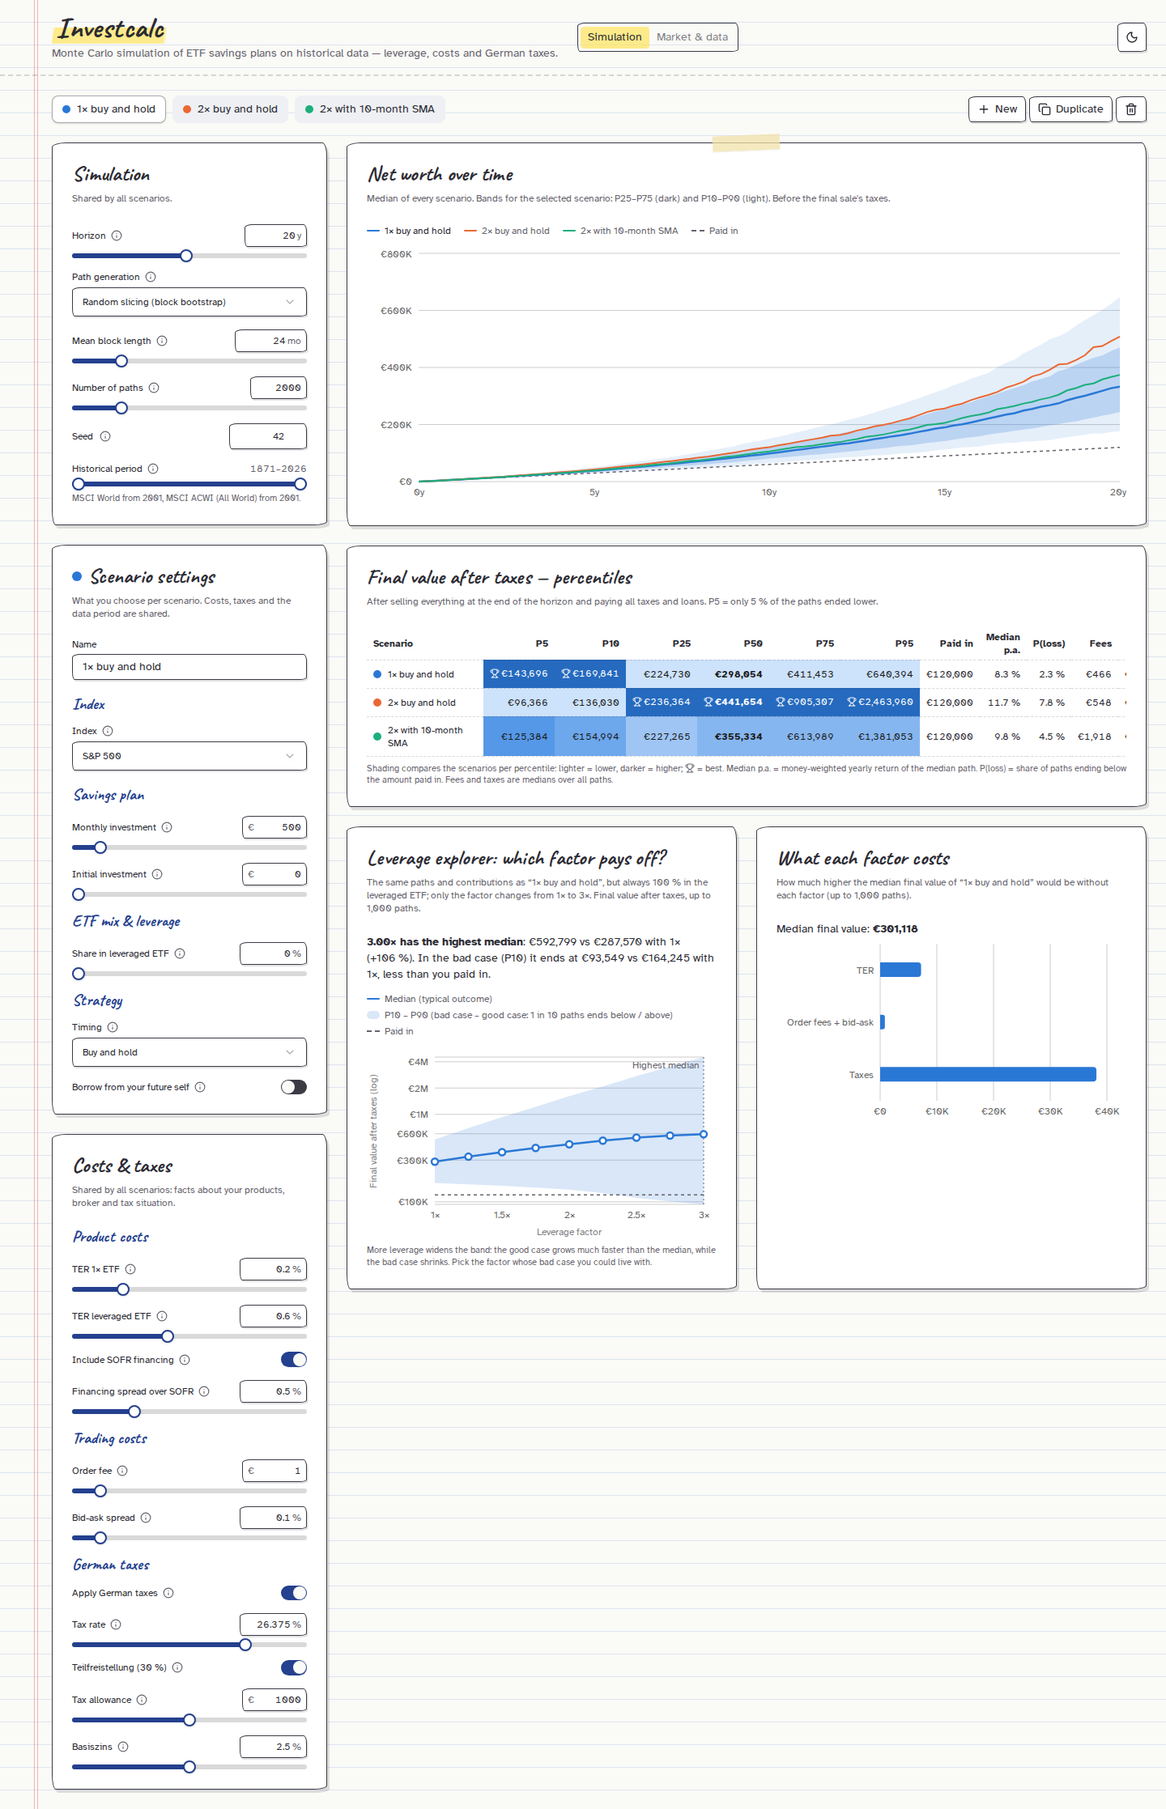
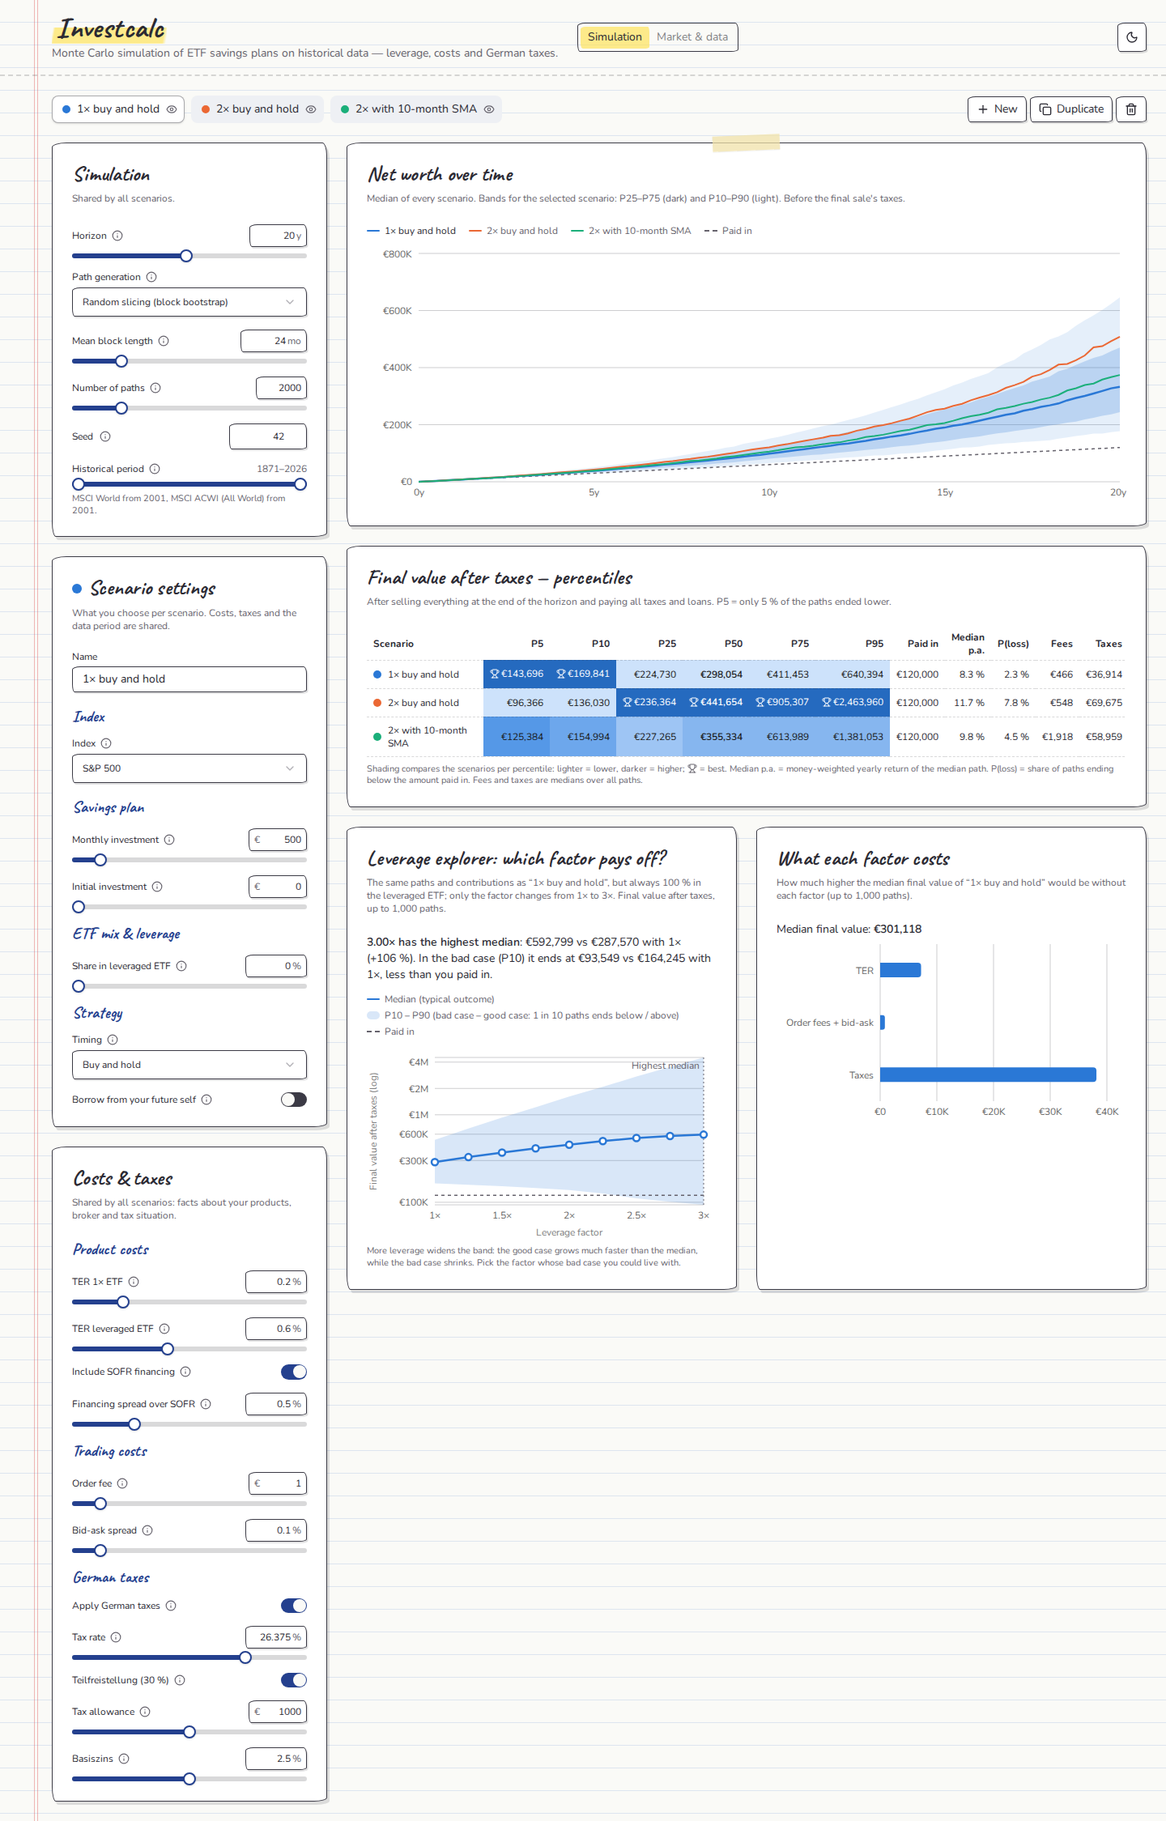
Hide/show scenarios, switch body font to Nunito
Spec 004: scenarios can be hidden from chart and results table (not
simulated, persisted); body typeface Atkinson Hyperlegible -> Nunito.

diff --git a/src/features/scenarios/ScenarioBar.tsx b/src/features/scenarios/ScenarioBar.tsx
@@ -1,4 +1,4 @@
-import { CopyIcon, PlusIcon, Trash2Icon } from "lucide-react";
+import { CopyIcon, EyeIcon, EyeOffIcon, PlusIcon, Trash2Icon } from "lucide-react";
 import { Button } from "@/components/ui/button";
 import { MAX_SCENARIOS, type Scenario, scenarioColor } from "@/features/scenarios/scenario";
 import { cn } from "@/lib/utils";
@@ -7,6 +7,7 @@ type Props = {
   scenarios: Scenario[];
   selectedKey: string;
   onSelect: (key: string) => void;
+  onToggleVisible: (key: string) => void;
   onAdd: () => void;
   onDuplicate: () => void;
   onRemove: () => void;
@@ -16,6 +17,7 @@ export function ScenarioBar({
   scenarios,
   selectedKey,
   onSelect,
+  onToggleVisible,
   onAdd,
   onDuplicate,
   onRemove,
@@ -24,28 +26,57 @@ export function ScenarioBar({
   return (
     <div className="flex flex-wrap items-center gap-2">
       <div role="tablist" aria-label="Scenarios" className="flex flex-wrap gap-2">
-        {scenarios.map((s) => (
-          <button
-            key={s.key}
-            type="button"
-            role="tab"
-            aria-selected={s.key === selectedKey}
-            onClick={() => onSelect(s.key)}
-            className={cn(
-              "flex items-center gap-2 rounded-md border px-3 py-1.5 text-sm transition-colors",
-              s.key === selectedKey
-                ? "border-foreground/40 bg-card shadow-sm"
-                : "border-transparent bg-muted hover:bg-card",
-            )}
-          >
-            <span
-              className="size-2.5 rounded-full"
-              style={{ background: scenarioColor(s) }}
-              aria-hidden
-            />
-            {s.params.name}
-          </button>
-        ))}
+        {scenarios.map((s) => {
+          const selected = s.key === selectedKey;
+          const visible = !s.hidden;
+          return (
+            <div
+              key={s.key}
+              role="presentation"
+              className={cn(
+                "flex items-center rounded-md border text-sm transition-colors",
+                selected
+                  ? "border-foreground/40 bg-card shadow-sm"
+                  : "border-transparent bg-muted hover:bg-card",
+              )}
+            >
+              <button
+                type="button"
+                role="tab"
+                aria-selected={selected}
+                onClick={() => onSelect(s.key)}
+                className={cn(
+                  "flex items-center gap-2 py-1.5 pr-1 pl-3",
+                  !visible && "text-muted-foreground line-through decoration-1",
+                )}
+              >
+                <span
+                  className="size-2.5 rounded-full border-2"
+                  style={{
+                    borderColor: scenarioColor(s),
+                    background: visible ? scenarioColor(s) : "transparent",
+                  }}
+                  aria-hidden
+                />
+                {s.params.name}
+              </button>
+              <button
+                type="button"
+                aria-label={`Show ${s.params.name}`}
+                aria-pressed={visible}
+                title={visible ? "Hide from chart and table" : "Show in chart and table"}
+                onClick={() => onToggleVisible(s.key)}
+                className="mr-1 rounded p-1 text-muted-foreground hover:text-foreground focus-visible:outline-2 focus-visible:outline-ring"
+              >
+                {visible ? (
+                  <EyeIcon className="size-3.5" aria-hidden />
+                ) : (
+                  <EyeOffIcon className="size-3.5" aria-hidden />
+                )}
+              </button>
+            </div>
+          );
+        })}
       </div>
       <div className="ml-auto flex gap-1">
         <Button size="sm" variant="outline" onClick={onAdd} disabled={full}>

diff --git a/src/App.test.tsx b/src/App.test.tsx
@@ -204,3 +204,84 @@ test("REQ-002-05 market and data basis are on their own view, not among the resu
   expect(screen.getByText("Data basis")).toBeInTheDocument();
   expect(screen.queryByText("Scenario settings")).not.toBeInTheDocument();
 });
+
+const fakeResult = () => ({
+  pathCount: 10,
+  period: "",
+  bands: [{ p10: 1, p25: 2, p50: 3, p75: 4, p90: 5 }],
+  final: { p5: 1, p10: 2, p25: 3, p50: 4, p75: 5, p95: 6 },
+  invested: 1,
+  probabilityOfLoss: 0,
+  medianFees: 0,
+  medianTaxes: 0,
+});
+
+function resolvingClient() {
+  const calls: { key: string }[][] = [];
+  const client = {
+    run: (jobs: { key: string }[]) => {
+      calls.push(jobs);
+      return Promise.resolve(Object.fromEntries(jobs.map((j) => [j.key, fakeResult()])));
+    },
+    analyze: () => new Promise(() => {}),
+  } as unknown as Pick<SimulationClient, "run" | "analyze">;
+  return { client, calls };
+}
+
+async function resultsCard() {
+  return (await screen.findByText(/Final value after taxes — percentiles/)).closest(
+    "[data-slot=card]",
+  ) as HTMLElement;
+}
+
+test("REQ-004-01 hidden scenarios leave the chart and the results table", async () => {
+  const { client, calls } = resolvingClient();
+  renderApp(client);
+  const legend = await screen.findByRole("list", { name: "Legend" });
+  await within(legend).findByText("2× buy and hold");
+
+  const toggle = screen.getByRole("button", { name: "Show 2× buy and hold" });
+  expect(toggle).toHaveAttribute("aria-pressed", "true");
+  fireEvent.click(toggle);
+  expect(toggle).toHaveAttribute("aria-pressed", "false");
+
+  await vi.waitFor(() => expect(calls.at(-1)?.map((j) => j.key)).toEqual(["s1", "s3"]));
+  await vi.waitFor(() =>
+    expect(within(legend).queryByText("2× buy and hold")).not.toBeInTheDocument(),
+  );
+  const card = await resultsCard();
+  expect(within(card).queryByRole("article", { name: "2× buy and hold" })).not.toBeInTheDocument();
+  expect(within(card).getByRole("article", { name: "1× buy and hold" })).toBeInTheDocument();
+
+  // Still in the scenario bar and editable.
+  const tabs = screen.getByRole("tablist", { name: "Scenarios" });
+  fireEvent.click(within(tabs).getByRole("tab", { name: /2× buy and hold/ }));
+  expect(screen.getByLabelText("Name")).toHaveValue("2× buy and hold");
+});
+
+test("REQ-004-02 a hidden scenario can be shown again", async () => {
+  const { client, calls } = resolvingClient();
+  renderApp(client);
+  const legend = await screen.findByRole("list", { name: "Legend" });
+  const toggle = await screen.findByRole("button", { name: "Show 1× buy and hold" });
+  fireEvent.click(toggle);
+  await vi.waitFor(() => expect(calls.at(-1)?.map((j) => j.key)).toEqual(["s2", "s3"]));
+  fireEvent.click(toggle);
+  await vi.waitFor(() => expect(calls.at(-1)?.map((j) => j.key)).toEqual(["s1", "s2", "s3"]));
+  await within(legend).findByText("1× buy and hold");
+});
+
+test("REQ-004-03 hidden scenarios stay hidden after a reload", async () => {
+  const first = renderApp();
+  fireEvent.click(await screen.findByRole("button", { name: "Show 2× buy and hold" }));
+  first.unmount();
+  renderApp();
+  expect(await screen.findByRole("button", { name: "Show 2× buy and hold" })).toHaveAttribute(
+    "aria-pressed",
+    "false",
+  );
+  expect(screen.getByRole("button", { name: "Show 1× buy and hold" })).toHaveAttribute(
+    "aria-pressed",
+    "true",
+  );
+});

diff --git a/e2e/screenshots.spec.ts b/e2e/screenshots.spec.ts
@@ -3,24 +3,30 @@ import { devices, expect, test } from "@playwright/test";
 const { defaultBrowserType: _, ...iPhone } = devices["iPhone 13"];
 const desktop = { viewport: { width: 1440, height: 900 } };
 
-const shots = [
-  { name: "home", device: desktop, view: undefined },
-  { name: "home-dark", device: { ...desktop, colorScheme: "dark" as const }, view: undefined },
-  { name: "home-mobile", device: iPhone, view: undefined },
+type Shot = { name: string; device: object; view?: string; hide?: string };
+
+const shots: Shot[] = [
+  { name: "home", device: desktop },
+  { name: "home-dark", device: { ...desktop, colorScheme: "dark" as const } },
+  { name: "home-mobile", device: iPhone },
+  { name: "scenario-hidden", device: desktop, hide: "2× buy and hold" },
   { name: "market", device: desktop, view: "Market & data" },
 ];
 
-for (const { name, device, view } of shots) {
+for (const { name, device, view, hide } of shots) {
   test.describe(name, () => {
     test.use(device);
     test(`screenshot: ${name}`, async ({ page }) => {
       await page.goto("/");
+      if (hide) await page.getByRole("button", { name: `Show ${hide}` }).click();
       if (view) {
         await page.getByRole("tab", { name: view }).click();
         await expect(page.getByText("Data basis")).toBeVisible();
       } else {
         // Wait for the simulation and the analysis of the selected scenario.
         await expect(page.getByTestId("leverage-takeaway")).toBeVisible({ timeout: 60_000 });
+        await expect(page.getByText("Simulating…").first()).toBeHidden({ timeout: 60_000 });
+        await page.mouse.move(0, 0);
       }
       await page.screenshot({ path: `docs/screenshots/${name}.png`, fullPage: true });
     });

diff --git a/src/App.tsx b/src/App.tsx
@@ -70,7 +70,8 @@ export function App({ loadDataset = fetchDataset, simulationClient }: AppProps) 
   }, [scenarios, selected.key, global, shared]);
 
   const resolved = useMemo<ResolvedScenario[]>(
-    () => scenarios.map((s) => ({ ...s, params: toParams(s.params, shared) })),
+    () =>
+      scenarios.filter((s) => !s.hidden).map((s) => ({ ...s, params: toParams(s.params, shared) })),
     [scenarios, shared],
   );
   // Memoised on its own so editing another scenario does not re-run the analysis.
@@ -93,6 +94,8 @@ export function App({ loadDataset = fetchDataset, simulationClient }: AppProps) 
   };
   const updateSelected = (params: ScenarioChoices) =>
     setScenarios(scenarios.map((s) => (s.key === selected.key ? { ...s, params } : s)));
+  const toggleVisible = (key: string) =>
+    setScenarios(scenarios.map((s) => (s.key === key ? { ...s, hidden: !s.hidden } : s)));
   const removeSelected = () => {
     const rest = scenarios.filter((s) => s.key !== selected.key);
     setScenarios(rest);
@@ -148,6 +151,7 @@ export function App({ loadDataset = fetchDataset, simulationClient }: AppProps) 
                     scenarios={scenarios}
                     selectedKey={selected.key}
                     onSelect={setSelectedKey}
+                    onToggleVisible={toggleVisible}
                     onAdd={() =>
                       addScenario({ ...defaultChoices, name: `Scenario ${scenarios.length + 1}` })
                     }

diff --git a/src/features/persistence/persistence.test.ts b/src/features/persistence/persistence.test.ts
@@ -42,3 +42,17 @@ test("REQ-002-01 state from another version is ignored", () => {
   localStorage.setItem("investcalc:state", JSON.stringify({ ...state(), version: 999 }));
   expect(loadState(localStorage)).toBeUndefined();
 });
+
+test("REQ-004-03 hidden scenarios are restored", () => {
+  const s = state();
+  s.scenarios = s.scenarios.map((sc, i) => ({ ...sc, hidden: i === 1 }));
+  saveState(localStorage, s);
+  expect(loadState(localStorage)?.scenarios.map((sc) => sc.hidden)).toEqual([false, true, false]);
+});
+
+test("REQ-004-03 state without visibility restores every scenario visible", () => {
+  const s = state();
+  const legacy = s.scenarios.map(({ hidden: _, ...sc }) => sc);
+  localStorage.setItem("investcalc:state", JSON.stringify({ ...s, version: 1, scenarios: legacy }));
+  expect(loadState(localStorage)?.scenarios.every((sc) => !sc.hidden)).toBe(true);
+});

diff --git a/src/features/scenarios/scenario.ts b/src/features/scenarios/scenario.ts
@@ -56,7 +56,13 @@ export const toParams = (choices: ScenarioChoices, shared: SharedSettings): Scen
   ...shared,
 });
 
-export type Scenario<P = ScenarioChoices> = { key: string; colorIndex: number; params: P };
+export type Scenario<P = ScenarioChoices> = {
+  key: string;
+  colorIndex: number;
+  params: P;
+  /** Hidden scenarios are kept but neither simulated nor shown in the results (REQ-004-01). */
+  hidden?: boolean;
+};
 /** A scenario merged with the shared settings, ready to simulate. */
 export type ResolvedScenario = Scenario<ScenarioParams>;
 

diff --git a/src/main.tsx b/src/main.tsx
@@ -4,8 +4,9 @@ import { createRoot } from "react-dom/client";
 import { App } from "@/App";
 import { Toaster } from "@/components/ui/sonner";
 import "@fontsource/caveat/700.css";
-import "@fontsource/atkinson-hyperlegible/400.css";
-import "@fontsource/atkinson-hyperlegible/700.css";
+import "@fontsource/nunito/400.css";
+import "@fontsource/nunito/600.css";
+import "@fontsource/nunito/700.css";
 import "@/index.css";
 
 const queryClient = new QueryClient();

diff --git a/src/features/persistence/persistence.ts b/src/features/persistence/persistence.ts
@@ -33,6 +33,8 @@ const stateSchema = z.object({
           .max(MAX_SCENARIOS - 1),
         // Only indices that exist, so a restored scenario can always be simulated.
         params: choicesSchema.extend({ etfId: z.enum(datasetIds) }),
+        // Missing in state saved before scenarios could be hidden: visible (REQ-004-03).
+        hidden: z.boolean().optional(),
       }),
     )
     .min(1)

diff --git a/src/index.css b/src/index.css
@@ -67,7 +67,7 @@
   --heat-ink-7: #ffffff;
   --heat-ink-8: #ffffff;
 
-  --notebook-sans: "Atkinson Hyperlegible", system-ui, sans-serif;
+  --notebook-sans: "Nunito", system-ui, sans-serif;
   --notebook-hand: "Caveat", cursive;
 }
 

diff --git a/docs/architecture.md b/docs/architecture.md
@@ -2,7 +2,7 @@
 
 Static single-page app, no backend. Simulations run entirely in the browser, off the main thread.
 
-- `src/main.tsx` — entry; mounts `App` inside the TanStack Query provider and the sonner `Toaster`, loads the handwriting fonts (`@fontsource/caveat`, `@fontsource/atkinson-hyperlegible`).
+- `src/main.tsx` — entry; mounts `App` inside the TanStack Query provider and the sonner `Toaster`, loads the fonts (`@fontsource/caveat` for handwritten headings, `@fontsource/nunito` for body text and numbers).
 - `src/index.css` — theme: light and dark CSS variables (shadcn tokens, the categorical `--series-N` scenario colors and the `--heat-N` / `--heat-ink-N` table ramp, each stepped per theme) and the notebook look (ruled paper, hand-drawn outlines, tape, highlighter). The notebook rules are unlayered on purpose so they override the utility classes of the shadcn primitives without forking them. The dark theme is the `.dark` class on `<html>`, set before first paint by an inline script in `index.html` and toggled by `features/theme`.
 - `src/components/ui/` — shadcn/ui components (generated with `bunx shadcn@latest add <name>`, excluded from Biome).
 - `src/simulation/` — the simulation engine: pure, framework-free TypeScript so it can be unit-tested and run inside a Web Worker.
@@ -12,7 +12,7 @@ Static single-page app, no backend. Simulations run entirely in the browser, off
   - `simulate.ts` builds paths from a dataset and aggregates percentiles, leverage sweep, factor impact
   - `protocol.ts` / `worker.ts` messages between UI and Web Worker; `market.ts` current market phase
 - `src/features/` — UI by feature: `data` (loading, data basis), `scenarios` (settings, field metadata with tooltips and recommendations), `simulation` (worker client, hook), `results` (charts, tables, heatmap shading), `market`, `persistence` (dashboard state in `localStorage`), `theme` (light/dark switch, stored in `localStorage`, defaulting to the system preference).
-  - A scenario in the UI only holds the user's _choices_ (`ScenarioChoices`); _shared settings_ (data period, product and trading costs, taxes) are kept once and merged with `toParams` into the engine's `ScenarioParams` before simulating. The engine itself is unaware of the split.
+  - A scenario in the UI only holds the user's _choices_ (`ScenarioChoices`); _shared settings_ (data period, product and trading costs, taxes) are kept once and merged with `toParams` into the engine's `ScenarioParams` before simulating. _Hidden_ scenarios (`hidden: true`) are filtered out before that, so they are neither simulated nor shown. The engine itself is unaware of the split.
   - The dashboard state (scenarios, selection, simulation and shared settings) is saved to `localStorage` on every change, versioned and validated with Zod on load; invalid state falls back to the defaults.
 - `scripts/fetch-data.ts` — downloads the historical data into `public/data/*.json` (committed).
 - `.github/workflows/deploy.yml` — builds and publishes to GitHub Pages (relative `base` in `vite.config.ts`).

diff --git a/docs/specs/004-scenario-visibility/spec.md b/docs/specs/004-scenario-visibility/spec.md
@@ -1,0 +1,59 @@
+# 004 – Scenario visibility and body typeface
+
+**Status:** Implemented
+
+## Goal
+
+Users who build up many scenarios to compare want to focus on a few of them without deleting the
+others: the chart and the results table get crowded when every scenario is always shown. Users also
+found the body typeface out of place on the notebook page. This spec lets users hide and show
+scenarios and switches the body text to a friendlier, still highly legible typeface.
+
+## Requirements
+
+### REQ-004-01 Hiding a scenario
+
+- **Given** several scenarios
+- **When** the user switches a scenario's visibility toggle off
+- **Then** the scenario no longer appears in the chart, its legend or the results table
+- **And** it stays in the scenario bar, marked as hidden, and can still be selected and edited
+
+### REQ-004-02 Showing a scenario again
+
+- **Given** a hidden scenario
+- **When** the user switches its visibility toggle on
+- **Then** it appears in the chart, its legend and the results table again, with its color unchanged
+
+### REQ-004-03 Visibility survives a reload
+
+- **Given** the user has hidden some scenarios
+- **When** the page is reloaded
+- **Then** the same scenarios are hidden
+- **And** state stored before this feature existed is restored with every scenario visible
+
+### REQ-004-04 Body typeface
+
+- **Given** either theme
+- **When** the dashboard is shown
+- **Then** body text, labels and numbers use a rounded, friendly typeface that matches the
+  handwritten notebook look and stays highly legible (open letter shapes, aligned figures in tables)
+- **And** handwriting is still used only for headings
+
+## Out of scope
+
+- Hiding all scenarios at once, reordering scenarios.
+
+## Assumptions
+
+- Hidden scenarios are not simulated, so hiding them also makes the dashboard faster.
+- At least one scenario may stay hidden or all may be hidden; the chart and table then show their empty state.
+
+## Verification
+
+| REQ        | Test                                                                    | Result            |
+| ---------- | ----------------------------------------------------------------------- | ----------------- |
+| REQ-004-01 | `REQ-004-01 hidden scenarios leave the chart and the results table`     | pass              |
+| REQ-004-02 | `REQ-004-02 a hidden scenario can be shown again`                       | pass              |
+| REQ-004-03 | `REQ-004-03 hidden scenarios stay hidden after a reload`                | pass              |
+| REQ-004-03 | `REQ-004-03 state without visibility restores every scenario visible`   | pass              |
+| REQ-004-04 | Manual: `docs/screenshots/home.png`, `home-dark.png`, `home-mobile.png` | pass (screenshot) |

diff --git a/README.md b/README.md
@@ -9,7 +9,7 @@ A browser-based website that runs Monte Carlo simulations of ETF portfolios unde
 - **Products:** 1× ETF, leveraged ETF (1×–3×, daily reset with volatility drag, SOFR + spread financing) or any mix of both.
 - **Costs and German taxes:** TER, order fees, bid-ask spread; Abgeltungsteuer + Soli, Teilfreistellung, Sparerpauschbetrag, Vorabpauschale, loss carry-forward.
 - **Strategies:** savings plan (buy and hold), SMA trend filter, "borrow from your future self" (invest a loan worth future contributions now).
-- **Scenarios:** compare up to 8 scenarios of your own choices (index, amounts, mix, leverage, strategy); costs, taxes and the data period are shared by all of them. Everything is saved in your browser and restored after a reload.
+- **Scenarios:** compare up to 8 scenarios of your own choices (index, amounts, mix, leverage, strategy); costs, taxes and the data period are shared by all of them. Hide scenarios you don't want to compare right now with the eye toggle. Everything is saved in your browser and restored after a reload.
 - **Results:** fan chart and a percentile table color-coded per column so the winner stands out; leverage explorer (which factor pays off, and at what downside); how much each cost factor costs.
 - **Market & data:** current market phase (bull/bear, SMA position) and the data basis on their own view.
 - **Exact input:** every slider has a box next to it to type the exact value (e.g. €437 per month or a 0.07 % TER).
